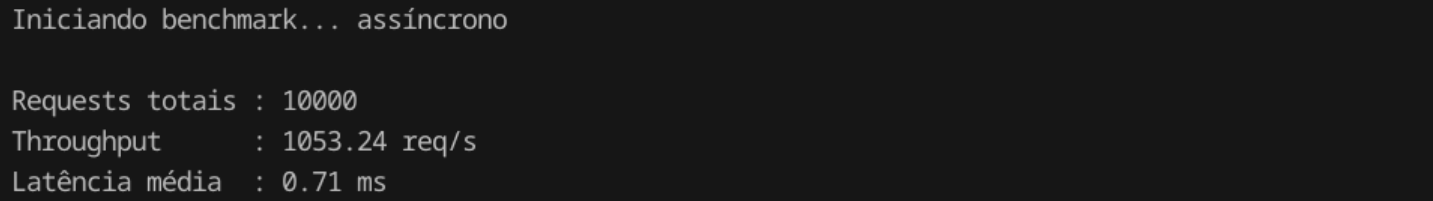
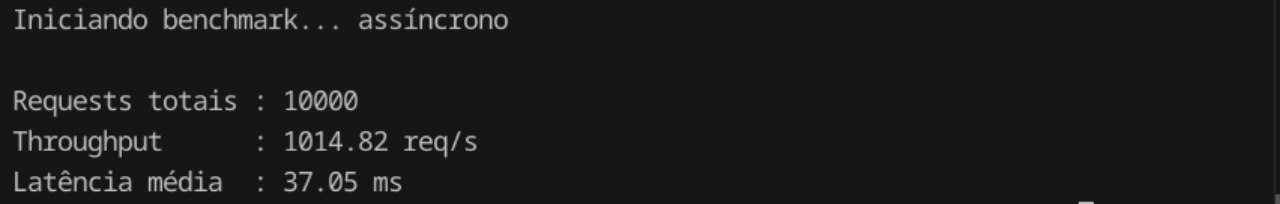
refactor: reorganize README sections and update async benchmark metrics handling

diff --git a/benchmark_client_async.py b/benchmark_client_async.py
@@ -26,33 +26,37 @@ def clear_server_metrics():
     return print(response.json().get("message", ""))
 
 
-async def fetch(client: httpx.AsyncClient, sem: asyncio.Semaphore) -> int:
+async def fetch(client: httpx.AsyncClient, sem: asyncio.Semaphore, latencies) -> int:
     url = f"http://localhost:8000/clientes/{random.randint(1, 1000)}"
 
     async with sem:
+        t0 = time.perf_counter()
         resp = await client.get(url, timeout=10.0)
+        t1 = time.perf_counter()
+
+        latencies.append(t1 - t0)
         return resp.status_code
 
 
 async def benchmark():
     # Limits hardware concurrency to 40
     sem = asyncio.Semaphore(40)
+    latencies = []
 
     async with httpx.AsyncClient(timeout=10.0) as client:
         inicio_total = time.perf_counter()
 
-        tasks = [asyncio.create_task(fetch(client, sem)) for _ in range(NUM_REQUESTS)]
+        tasks = [asyncio.create_task(fetch(client, sem, latencies)) for _ in range(NUM_REQUESTS)]
         await asyncio.gather(*tasks)
 
         fim_total = time.perf_counter()
         total_time = fim_total - inicio_total
 
+    avg_latency = sum(latencies) / len(latencies)
     print(f"Requests totais : {NUM_REQUESTS}")
     print(f"Throughput      : {NUM_REQUESTS / total_time:.2f} req/s")
-
-    latencies = get_server_metrics()
-    avg_latency = sum(latencies) / len(latencies)
     print(f"Latência média  : {avg_latency * 1000:.2f} ms")
+
 
 
 if __name__ == "__main__":

diff --git a/main.py b/main.py
@@ -1,8 +1,6 @@
 from contextlib import asynccontextmanager
-import time
-from typing import List
-from fastapi import FastAPI, Depends, HTTPException
 from fastapi.responses import JSONResponse
+from fastapi import FastAPI, Depends, HTTPException
 
 from infra.database import close_db_connection, connect_to_db, db
 
@@ -19,7 +17,6 @@ async def lifespan(app: FastAPI):
 
 
 app = FastAPI(lifespan=lifespan)
-METRICS: List[float] = []
 
 
 def get_conn():
@@ -29,31 +26,11 @@ def get_conn():
 @app.get("/clientes/{cliente_id}")
 async def ler_cliente(cliente_id: int, conn=Depends(get_conn)):
     
-    start_time = time.perf_counter()
     row = await conn.fetchrow(
         "SELECT id, nome, email FROM clientes WHERE id = $1", cliente_id
     )
-    end_time = time.perf_counter()
-    
-    global METRICS
-    METRICS.append(end_time - start_time)
-
     if not row:
         raise HTTPException(status_code=404, detail="Cliente não encontrado")
 
     row = dict(row)
     return JSONResponse(row)
-
-
-@app.get("/metrics")
-async def metrics():
-    global METRICS
-    return JSONResponse({"status": "ok", "message": METRICS})
-
-
-@app.put("/clean-metrics")
-async def clean_metrics():
-
-    global METRICS
-    METRICS.clear()
-    return JSONResponse({"status": "ok", "message": "Metrics cleaned."})

diff --git a/README.md b/README.md
@@ -4,11 +4,11 @@ This project contains a small FastAPI application backed by a PostgreSQL databas
 
 ## Results
 
-### Async
-![alt text](image-1.png)
-
 ### Sync
 ![alt text](image.png)
+
+### Async
+![alt text](image-1.png)
 
 ## Requirements
 
